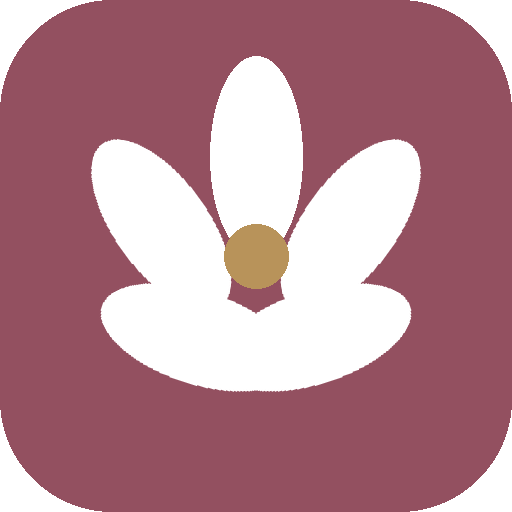
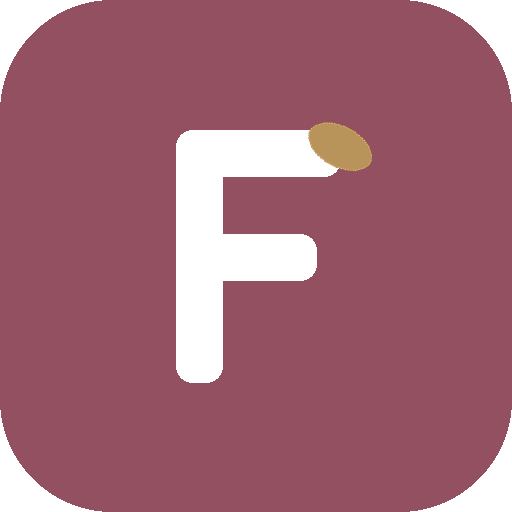
Reemplazar el isotipo de Florece por un monograma "F"
Segunda vuelta de la marca: se exploraron 4 direcciones (flor
simétrica -ya en producción-, flor orgánica, ramita botánica de trazo
lineal, monograma) comparándolas a tamaño real de favicon (16-32px).
La flor orgánica era casi indistinguible de la simétrica a ese tamaño
y la ramita perdía legibilidad — el monograma fue el único que se
sostuvo nítido en todo el rango y suma identidad real (la inicial de
Florece), no solo un ícono decorativo.

- Nuevo componente src/components/icono-marca.tsx (la "F" en trazo
  geométrico grueso + pétalo dorado, no un ícono de lucide-react — es
  la marca). El pétalo se mantiene en el dorado fijo incluso en el uso
  inline monocromático: sin ese acento se pierde el detalle que la
  distingue de una simple inicial a tamaño chico.
- public/icono-app.svg + PNGs (180/192/512) regenerados con el
  monograma para favicon/PWA.
- Reemplaza el ícono Flower (lucide) en los mismos 5 puntos donde
  actúa como marca de la plataforma (header público, login, registro,
  recibo, portada del dominio raíz).
- fundamentos/marca.html del sistema de diseño reescrita con el
  monograma definitivo + sección "Direcciones descartadas" mostrando
  las 3 alternativas exploradas y por qué no se eligieron.

Changed region(s): [[0.1562, 0.0938, 0.8438, 0.7812]]

diff --git a/diseno-sistema/fundamentos/marca.html b/diseno-sistema/fundamentos/marca.html
@@ -76,6 +76,12 @@
   .tamano { text-align: center; }
   .tamano .etiqueta { margin-top: 10px; font-size: 12px; color: var(--color-texto-secundario); font-family: monospace; }
 
+  /* Descartadas */
+  .descartadas { display: flex; gap: 20px; }
+  .descartada { text-align: center; opacity: 0.75; }
+  .descartada svg { width: 56px; height: 56px; border-radius: 14px; }
+  .descartada .etiqueta { margin-top: 8px; font-size: 11px; color: var(--color-texto-secundario); }
+
   /* Uso sobre fondos */
   .fondos { display: grid; grid-template-columns: repeat(3, 1fr); gap: 16px; }
   .fondo-card {
@@ -104,7 +110,7 @@
     border-radius: 14px;
     width: fit-content;
   }
-  .linea-mark svg { color: var(--color-rosado); }
+  .linea-mark svg { width: 22px; height: 22px; color: var(--color-rosado); }
   .linea-mark span { font-family: var(--fuente-titulo); font-weight: 600; font-size: 18px; }
 
   .nota {
@@ -138,13 +144,11 @@
       <svg class="marca-svg" viewBox="0 0 512 512" xmlns="http://www.w3.org/2000/svg">
         <rect width="512" height="512" rx="112" fill="#935060" />
         <g fill="#ffffff">
-          <ellipse cx="256" cy="156" rx="46" ry="100" />
-          <ellipse cx="256" cy="156" rx="46" ry="100" transform="rotate(72 256 256)" />
-          <ellipse cx="256" cy="156" rx="46" ry="100" transform="rotate(144 256 256)" />
-          <ellipse cx="256" cy="156" rx="46" ry="100" transform="rotate(216 256 256)" />
-          <ellipse cx="256" cy="156" rx="46" ry="100" transform="rotate(288 256 256)" />
+          <rect x="176" y="130" width="46" height="252" rx="16" />
+          <rect x="176" y="130" width="164" height="46" rx="16" />
+          <rect x="176" y="234" width="140" height="46" rx="16" />
         </g>
-        <circle cx="256" cy="256" r="32" fill="#B8935A" />
+        <ellipse cx="340" cy="146" rx="34" ry="20" fill="#B8935A" transform="rotate(28 340 146)" />
       </svg>
       <div>
         <p class="nombre-marca">Florece</p>
@@ -152,11 +156,11 @@
       </div>
     </div>
     <p class="nota">
-      Un mónogram floral de 5 pétalos: representa el negocio de la clienta (y el de
-      cada profesional) floreciendo. Pétalos blancos sobre <code>--color-rosado</code>,
-      centro en <code>--color-dorado</code> — los dos acentos que ya sostienen el resto
-      del sistema. Deliberadamente geométrico y simple: se mantiene legible incluso a
-      tamaño de favicon (16–32px), donde un trazo fino desaparece.
+      Monograma: la inicial "F" en trazo geométrico grueso, con un pétalo dorado
+      brotando de la esquina superior — la letra funciona sola como ícono (favicon,
+      PWA, avatar de negocio sin logo propio) y a la vez ancla el wordmark completo.
+      Blanco sobre <code>--color-rosado</code>, pétalo en <code>--color-dorado</code>
+      — los mismos dos acentos que ya sostienen el resto del sistema.
     </p>
   </section>
 
@@ -164,52 +168,58 @@
     <h2>Tamaños de referencia</h2>
     <div class="grilla-tamanos">
       <div class="tamano">
-        <svg width="16" height="16" viewBox="0 0 512 512"><rect width="512" height="512" rx="112" fill="#935060"/><g fill="#fff"><ellipse cx="256" cy="156" rx="46" ry="100"/><ellipse cx="256" cy="156" rx="46" ry="100" transform="rotate(72 256 256)"/><ellipse cx="256" cy="156" rx="46" ry="100" transform="rotate(144 256 256)"/><ellipse cx="256" cy="156" rx="46" ry="100" transform="rotate(216 256 256)"/><ellipse cx="256" cy="156" rx="46" ry="100" transform="rotate(288 256 256)"/></g><circle cx="256" cy="256" r="32" fill="#B8935A"/></svg>
+        <svg width="16" height="16" viewBox="0 0 512 512"><rect width="512" height="512" rx="112" fill="#935060"/><g fill="#fff"><rect x="176" y="130" width="46" height="252" rx="16"/><rect x="176" y="130" width="164" height="46" rx="16"/><rect x="176" y="234" width="140" height="46" rx="16"/></g><ellipse cx="340" cy="146" rx="34" ry="20" fill="#B8935A" transform="rotate(28 340 146)"/></svg>
         <div class="etiqueta">16px</div>
       </div>
       <div class="tamano">
-        <svg width="32" height="32" viewBox="0 0 512 512"><rect width="512" height="512" rx="112" fill="#935060"/><g fill="#fff"><ellipse cx="256" cy="156" rx="46" ry="100"/><ellipse cx="256" cy="156" rx="46" ry="100" transform="rotate(72 256 256)"/><ellipse cx="256" cy="156" rx="46" ry="100" transform="rotate(144 256 256)"/><ellipse cx="256" cy="156" rx="46" ry="100" transform="rotate(216 256 256)"/><ellipse cx="256" cy="156" rx="46" ry="100" transform="rotate(288 256 256)"/></g><circle cx="256" cy="256" r="32" fill="#B8935A"/></svg>
+        <svg width="32" height="32" viewBox="0 0 512 512"><rect width="512" height="512" rx="112" fill="#935060"/><g fill="#fff"><rect x="176" y="130" width="46" height="252" rx="16"/><rect x="176" y="130" width="164" height="46" rx="16"/><rect x="176" y="234" width="140" height="46" rx="16"/></g><ellipse cx="340" cy="146" rx="34" ry="20" fill="#B8935A" transform="rotate(28 340 146)"/></svg>
         <div class="etiqueta">32px</div>
       </div>
       <div class="tamano">
-        <svg width="48" height="48" viewBox="0 0 512 512"><rect width="512" height="512" rx="112" fill="#935060"/><g fill="#fff"><ellipse cx="256" cy="156" rx="46" ry="100"/><ellipse cx="256" cy="156" rx="46" ry="100" transform="rotate(72 256 256)"/><ellipse cx="256" cy="156" rx="46" ry="100" transform="rotate(144 256 256)"/><ellipse cx="256" cy="156" rx="46" ry="100" transform="rotate(216 256 256)"/><ellipse cx="256" cy="156" rx="46" ry="100" transform="rotate(288 256 256)"/></g><circle cx="256" cy="256" r="32" fill="#B8935A"/></svg>
+        <svg width="48" height="48" viewBox="0 0 512 512"><rect width="512" height="512" rx="112" fill="#935060"/><g fill="#fff"><rect x="176" y="130" width="46" height="252" rx="16"/><rect x="176" y="130" width="164" height="46" rx="16"/><rect x="176" y="234" width="140" height="46" rx="16"/></g><ellipse cx="340" cy="146" rx="34" ry="20" fill="#B8935A" transform="rotate(28 340 146)"/></svg>
         <div class="etiqueta">48px</div>
       </div>
       <div class="tamano">
-        <svg width="96" height="96" viewBox="0 0 512 512"><rect width="512" height="512" rx="112" fill="#935060"/><g fill="#fff"><ellipse cx="256" cy="156" rx="46" ry="100"/><ellipse cx="256" cy="156" rx="46" ry="100" transform="rotate(72 256 256)"/><ellipse cx="256" cy="156" rx="46" ry="100" transform="rotate(144 256 256)"/><ellipse cx="256" cy="156" rx="46" ry="100" transform="rotate(216 256 256)"/><ellipse cx="256" cy="156" rx="46" ry="100" transform="rotate(288 256 256)"/></g><circle cx="256" cy="256" r="32" fill="#B8935A"/></svg>
+        <svg width="96" height="96" viewBox="0 0 512 512"><rect width="512" height="512" rx="112" fill="#935060"/><g fill="#fff"><rect x="176" y="130" width="46" height="252" rx="16"/><rect x="176" y="130" width="164" height="46" rx="16"/><rect x="176" y="234" width="140" height="46" rx="16"/></g><ellipse cx="340" cy="146" rx="34" ry="20" fill="#B8935A" transform="rotate(28 340 146)"/></svg>
         <div class="etiqueta">96px</div>
       </div>
       <div class="tamano">
-        <svg width="160" height="160" viewBox="0 0 512 512"><rect width="512" height="512" rx="112" fill="#935060"/><g fill="#fff"><ellipse cx="256" cy="156" rx="46" ry="100"/><ellipse cx="256" cy="156" rx="46" ry="100" transform="rotate(72 256 256)"/><ellipse cx="256" cy="156" rx="46" ry="100" transform="rotate(144 256 256)"/><ellipse cx="256" cy="156" rx="46" ry="100" transform="rotate(216 256 256)"/><ellipse cx="256" cy="156" rx="46" ry="100" transform="rotate(288 256 256)"/></g><circle cx="256" cy="256" r="32" fill="#B8935A"/></svg>
+        <svg width="160" height="160" viewBox="0 0 512 512"><rect width="512" height="512" rx="112" fill="#935060"/><g fill="#fff"><rect x="176" y="130" width="46" height="252" rx="16"/><rect x="176" y="130" width="164" height="46" rx="16"/><rect x="176" y="234" width="140" height="46" rx="16"/></g><ellipse cx="340" cy="146" rx="34" ry="20" fill="#B8935A" transform="rotate(28 340 146)"/></svg>
         <div class="etiqueta">160px</div>
       </div>
     </div>
     <p class="nota">
       Usado como <code>public/icono-app.svg</code> del panel (favicon, ícono de PWA en
       180/192/512px, generados con Python + Pillow) — el respaldo genérico cuando una
-      cuenta todavía no subió su propio logo en "Mi negocio".
+      cuenta todavía no subió su propio logo en "Mi negocio". Se mantiene nítido incluso
+      a 16px, donde un trazo fino desaparecería.
     </p>
   </section>
 
   <section>
     <h2>Marca lineal (uso inline)</h2>
     <div class="linea-mark">
-      <svg width="22" height="22" viewBox="0 0 24 24" fill="none" stroke="currentColor" stroke-width="1.75" stroke-linecap="round" stroke-linejoin="round">
-        <circle cx="12" cy="12" r="3"/>
-        <path d="M12 16.5A4.5 4.5 0 1 1 7.5 12 4.5 4.5 0 1 1 12 7.5a4.5 4.5 0 1 1 4.5 4.5 4.5 4.5 0 1 1-4.5 4.5"/>
-        <path d="M12 7.5V9"/><path d="M7.5 12H9"/><path d="M16.5 12H15"/><path d="M12 16.5V15"/>
-        <path d="m8 8 1.88 1.88"/><path d="M14.12 9.88 16 8"/><path d="m8 16 1.88-1.88"/><path d="M14.12 14.12 16 16"/>
+      <svg viewBox="0 0 512 512">
+        <g fill="currentColor">
+          <rect x="176" y="130" width="46" height="252" rx="16"/>
+          <rect x="176" y="130" width="164" height="46" rx="16"/>
+          <rect x="176" y="234" width="140" height="46" rx="16"/>
+        </g>
+        <ellipse cx="340" cy="146" rx="34" ry="20" fill="#B8935A" transform="rotate(28 340 146)"/>
       </svg>
       <span>Florece</span>
     </div>
     <p class="nota">
-      Ícono <code>Flower</code> de lucide-react (ya instalada en el proyecto, mismo
-      lenguaje visual que el resto de la interfaz) en <code>--color-rosado-texto</code>,
-      sin fondo — reemplaza el genérico <code>Sparkles</code> que se usaba antes como
-      placeholder de marca en el header público, las pantallas de login/registro, el
-      recibo y la portada del dominio raíz. Los usos puramente decorativos de
-      <code>Sparkles</code> (ícono de categoría "uñas", tour guiado, estados vacíos)
-      no cambiaron — no son la marca, son iconografía de contenido.
+      Mismo monograma, componente propio <code>src/components/icono-marca.tsx</code>
+      (no un ícono de lucide-react — es la marca, no iconografía genérica). La "F" toma
+      <code>currentColor</code> (se adapta al color del texto que la rodea, típicamente
+      <code>--color-rosado-texto</code>), pero el pétalo se mantiene siempre en el
+      dorado fijo — sin ese acento de color, a tamaño chico se pierde el detalle que
+      distingue la marca de una simple inicial. Reemplaza el genérico
+      <code>Sparkles</code> que se usaba antes como placeholder en el header público,
+      login/registro, el recibo y la portada del dominio raíz. Los usos puramente
+      decorativos de <code>Sparkles</code> (categoría "uñas", tour guiado, estados
+      vacíos) no cambiaron — no son la marca, son iconografía de contenido.
     </p>
   </section>
 
@@ -217,23 +227,24 @@
     <h2>Sobre distintos fondos</h2>
     <div class="fondos">
       <div class="fondo-card fondo-claro">
-        <svg width="40" height="40" viewBox="0 0 24 24" fill="none" stroke="#935060" stroke-width="1.75" stroke-linecap="round" stroke-linejoin="round">
-          <circle cx="12" cy="12" r="3"/><path d="M12 16.5A4.5 4.5 0 1 1 7.5 12 4.5 4.5 0 1 1 12 7.5a4.5 4.5 0 1 1 4.5 4.5 4.5 4.5 0 1 1-4.5 4.5"/>
-          <path d="M12 7.5V9"/><path d="M7.5 12H9"/><path d="M16.5 12H15"/><path d="M12 16.5V15"/>
-          <path d="m8 8 1.88 1.88"/><path d="M14.12 9.88 16 8"/><path d="m8 16 1.88-1.88"/><path d="M14.12 14.12 16 16"/>
+        <svg width="40" height="40" viewBox="0 0 512 512">
+          <g fill="#935060"><rect x="176" y="130" width="46" height="252" rx="16"/><rect x="176" y="130" width="164" height="46" rx="16"/><rect x="176" y="234" width="140" height="46" rx="16"/></g>
+          <ellipse cx="340" cy="146" rx="34" ry="20" fill="#B8935A" transform="rotate(28 340 146)"/>
         </svg>
         <div class="nombre-fondo">--color-fondo</div>
       </div>
       <div class="fondo-card fondo-superficie">
-        <svg width="40" height="40" viewBox="0 0 24 24" fill="none" stroke="#935060" stroke-width="1.75" stroke-linecap="round" stroke-linejoin="round">
-          <circle cx="12" cy="12" r="3"/><path d="M12 16.5A4.5 4.5 0 1 1 7.5 12 4.5 4.5 0 1 1 12 7.5a4.5 4.5 0 1 1 4.5 4.5 4.5 4.5 0 1 1-4.5 4.5"/>
-          <path d="M12 7.5V9"/><path d="M7.5 12H9"/><path d="M16.5 12H15"/><path d="M12 16.5V15"/>
-          <path d="m8 8 1.88 1.88"/><path d="M14.12 9.88 16 8"/><path d="m8 16 1.88-1.88"/><path d="M14.12 14.12 16 16"/>
+        <svg width="40" height="40" viewBox="0 0 512 512">
+          <g fill="#935060"><rect x="176" y="130" width="46" height="252" rx="16"/><rect x="176" y="130" width="164" height="46" rx="16"/><rect x="176" y="234" width="140" height="46" rx="16"/></g>
+          <ellipse cx="340" cy="146" rx="34" ry="20" fill="#B8935A" transform="rotate(28 340 146)"/>
         </svg>
         <div class="nombre-fondo">--color-superficie</div>
       </div>
       <div class="fondo-card fondo-rosado">
-        <svg width="40" height="40" viewBox="0 0 512 512"><rect width="512" height="512" rx="112" fill="none"/><g fill="#fff"><ellipse cx="256" cy="156" rx="46" ry="100"/><ellipse cx="256" cy="156" rx="46" ry="100" transform="rotate(72 256 256)"/><ellipse cx="256" cy="156" rx="46" ry="100" transform="rotate(144 256 256)"/><ellipse cx="256" cy="156" rx="46" ry="100" transform="rotate(216 256 256)"/><ellipse cx="256" cy="156" rx="46" ry="100" transform="rotate(288 256 256)"/></g><circle cx="256" cy="256" r="32" fill="#B8935A"/></svg>
+        <svg width="40" height="40" viewBox="0 0 512 512">
+          <g fill="#fff"><rect x="176" y="130" width="46" height="252" rx="16"/><rect x="176" y="130" width="164" height="46" rx="16"/><rect x="176" y="234" width="140" height="46" rx="16"/></g>
+          <ellipse cx="340" cy="146" rx="34" ry="20" fill="#B8935A" transform="rotate(28 340 146)"/>
+        </svg>
         <div class="nombre-fondo">--color-rosado (isotipo completo)</div>
       </div>
     </div>
@@ -241,8 +252,33 @@
       El isotipo con fondo (cuadrado redondeado) solo se usa sobre superficies neutras
       (blanco/fondo) o como ícono independiente (favicon, PWA) — nunca sobre
       <code>--color-rosado</code> sólido, ya que el fondo del propio isotipo es ese
-      mismo tono. La versión lineal (sin fondo) es la que se usa inline, en rosado
-      sobre superficies claras.
+      mismo tono. La versión lineal (sin fondo, "F" en <code>currentColor</code>) es la
+      que se usa inline, sobre superficies claras.
+    </p>
+  </section>
+
+  <section>
+    <h2>Direcciones descartadas</h2>
+    <div class="descartadas">
+      <div class="descartada">
+        <svg viewBox="0 0 512 512"><rect width="512" height="512" rx="112" fill="#935060"/><g fill="#fff"><ellipse cx="256" cy="156" rx="46" ry="100"/><ellipse cx="256" cy="156" rx="46" ry="100" transform="rotate(72 256 256)"/><ellipse cx="256" cy="156" rx="46" ry="100" transform="rotate(144 256 256)"/><ellipse cx="256" cy="156" rx="46" ry="100" transform="rotate(216 256 256)"/><ellipse cx="256" cy="156" rx="46" ry="100" transform="rotate(288 256 256)"/></g><circle cx="256" cy="256" r="32" fill="#B8935A"/></svg>
+        <div class="etiqueta">Flor simétrica<br>(1ª versión, en producción<br>hasta esta pasada)</div>
+      </div>
+      <div class="descartada">
+        <svg viewBox="0 0 512 512"><rect width="512" height="512" rx="112" fill="#935060"/><g fill="#fff"><ellipse cx="256" cy="150" rx="50" ry="108" transform="rotate(-4 256 256)"/><ellipse cx="256" cy="158" rx="42" ry="92" transform="rotate(68 256 256)"/><ellipse cx="256" cy="162" rx="44" ry="96" transform="rotate(146 256 256)"/><ellipse cx="256" cy="156" rx="40" ry="88" transform="rotate(214 256 256)"/><ellipse cx="256" cy="160" rx="46" ry="98" transform="rotate(285 256 256)"/></g><circle cx="262" cy="250" r="30" fill="#B8935A"/></svg>
+        <div class="etiqueta">Flor orgánica —<br>casi idéntica a la<br>anterior a tamaño chico</div>
+      </div>
+      <div class="descartada">
+        <svg viewBox="0 0 512 512"><rect width="512" height="512" rx="112" fill="#935060"/><g fill="none" stroke="#ffffff" stroke-width="14" stroke-linecap="round"><path d="M256 400 C 256 320, 230 300, 230 240 C 230 190, 256 160, 256 120"/><path d="M256 300 C 256 300, 200 280, 185 240"/><path d="M256 260 C 256 260, 312 245, 330 205"/></g><g fill="#ffffff"><circle cx="256" cy="112" r="20"/><circle cx="222" cy="128" r="16"/><circle cx="290" cy="128" r="16"/></g><circle cx="256" cy="118" r="10" fill="#B8935A"/></svg>
+        <div class="etiqueta">Ramita botánica —<br>más elegante, pero el<br>trazo se pierde a 16–32px</div>
+      </div>
+    </div>
+    <p class="nota">
+      Se probaron 4 direcciones a tamaño real de favicon (32px) antes de elegir el
+      monograma: la flor simétrica y su variante orgánica eran casi indistinguibles
+      entre sí a ese tamaño, y la ramita de trazo fino perdía legibilidad. El
+      monograma fue la única que se sostuvo nítida en todo el rango 16–160px y suma
+      identidad de marca real (la inicial), no solo un ícono decorativo genérico.
     </p>
   </section>
 </body>

diff --git a/web/src/app/(publico)/[slug]/page.tsx b/web/src/app/(publico)/[slug]/page.tsx
@@ -1,6 +1,7 @@
 import { notFound } from "next/navigation";
 import type { Metadata } from "next";
-import { Flower, Phone, MessageCircle, Image as ImageIcon } from "lucide-react";
+import { Phone, MessageCircle, Image as ImageIcon } from "lucide-react";
+import { IconoMarca } from "@/components/icono-marca";
 import { crearClienteServidor } from "@/lib/supabase/servidor";
 import { Encabezado } from "@/components/publico/encabezado";
 import { SeccionServicios } from "@/components/publico/seccion-servicios";
@@ -123,7 +124,7 @@ export default async function PaginaNegocio({
       <main className="flex-1">
         {/* Hero */}
         <section className="animar-aparecer flex flex-col items-center gap-6 px-6 py-24 text-center sm:py-32">
-          <Flower className="h-8 w-8 text-rosado-texto" strokeWidth={1.5} />
+          <IconoMarca className="h-8 w-8 text-rosado-texto" />
           <h1 className="font-titulo max-w-2xl text-4xl font-semibold leading-tight text-texto-primario sm:text-5xl">
             {negocio.nombre_negocio}
           </h1>

diff --git a/web/src/app/(interno)/panel/recibo/[id]/page.tsx b/web/src/app/(interno)/panel/recibo/[id]/page.tsx
@@ -1,5 +1,6 @@
 import { notFound } from "next/navigation";
-import { CheckCircle2, MessageCircle, Flower } from "lucide-react";
+import { CheckCircle2, MessageCircle } from "lucide-react";
+import { IconoMarca } from "@/components/icono-marca";
 import { crearClienteServidor } from "@/lib/supabase/servidor";
 import { BotonImprimir } from "@/components/interno/boton-imprimir";
 import { formateadorPrecio } from "@/lib/formato";
@@ -40,7 +41,7 @@ export default async function PaginaRecibo({
     <main className="animar-aparecer mx-auto max-w-md flex-1 px-6 py-10">
       <div className="rounded-2xl border border-borde bg-superficie p-8 shadow-sm print:border-none print:p-0 print:shadow-none">
         <div className="text-center">
-          <Flower className="mx-auto h-6 w-6 text-rosado-texto" strokeWidth={1.5} />
+          <IconoMarca className="mx-auto h-6 w-6 text-rosado-texto" />
           <h1 className="font-titulo mt-2 text-2xl font-semibold text-texto-primario">
             {negocio?.nombre_negocio ?? "Recibo"}
           </h1>

diff --git a/web/src/app/(auth)/ingresar/page.tsx b/web/src/app/(auth)/ingresar/page.tsx
@@ -2,7 +2,8 @@
 
 import { useState } from "react";
 import { useRouter } from "next/navigation";
-import { AtSign, Lock, Loader2, Flower, MessageCircle } from "lucide-react";
+import { AtSign, Lock, Loader2, MessageCircle } from "lucide-react";
+import { IconoMarca } from "@/components/icono-marca";
 import { crearClienteNavegador } from "@/lib/supabase/cliente";
 import { emailInternoDesdeUsuario } from "@/lib/autenticacion";
 import { urlWhatsappSoporte } from "@/lib/soporte";
@@ -47,7 +48,7 @@ export default function PaginaIngresar() {
     <main className="flex flex-1 items-center justify-center px-6 py-16">
       <form onSubmit={alEnviar} className="animar-aparecer w-full max-w-sm">
         <div className="text-center">
-          <Flower className="mx-auto h-7 w-7 text-rosado-texto" strokeWidth={1.5} />
+          <IconoMarca className="mx-auto h-7 w-7 text-rosado-texto" />
           <h1 className="font-titulo mt-2 text-2xl font-semibold text-texto-primario">
             Iniciá sesión
           </h1>

diff --git a/web/src/app/(auth)/registro/page.tsx b/web/src/app/(auth)/registro/page.tsx
@@ -12,8 +12,8 @@ import {
   Loader2,
   CheckCircle2,
   XCircle,
-  Flower,
 } from "lucide-react";
+import { IconoMarca } from "@/components/icono-marca";
 import { crearClienteNavegador } from "@/lib/supabase/cliente";
 import { generarSlug } from "@/lib/slug";
 import { emailInternoDesdeUsuario } from "@/lib/autenticacion";
@@ -173,7 +173,7 @@ export default function PaginaRegistro() {
     <main className="flex flex-1 items-center justify-center px-6 py-16">
       <form onSubmit={alEnviar} className="animar-aparecer w-full max-w-sm">
         <div className="text-center">
-          <Flower className="mx-auto h-7 w-7 text-rosado-texto" strokeWidth={1.5} />
+          <IconoMarca className="mx-auto h-7 w-7 text-rosado-texto" />
           <h1 className="font-titulo mt-2 text-2xl font-semibold text-texto-primario">
             Creá tu cuenta
           </h1>

diff --git a/web/src/components/publico/encabezado.tsx b/web/src/components/publico/encabezado.tsx
@@ -1,7 +1,8 @@
 "use client";
 
 import { useState } from "react";
-import { Flower, Menu, X } from "lucide-react";
+import { Menu, X } from "lucide-react";
+import { IconoMarca } from "@/components/icono-marca";
 
 export function Encabezado({
   nombreNegocio,
@@ -30,7 +31,7 @@ export function Encabezado({
               className="h-6 w-6 shrink-0 rounded-full object-cover"
             />
           ) : (
-            <Flower className="h-5 w-5 shrink-0 text-rosado-texto" strokeWidth={1.75} />
+            <IconoMarca className="h-5 w-5 shrink-0 text-rosado-texto" />
           )}
           <span className="truncate">{nombreNegocio}</span>
         </span>

diff --git a/web/src/app/(publico)/page.tsx b/web/src/app/(publico)/page.tsx
@@ -1,10 +1,10 @@
-import { Flower } from "lucide-react";
+import { IconoMarca } from "@/components/icono-marca";
 
 export default function PaginaInicio() {
   return (
     <main className="flex flex-1 items-center justify-center px-6 py-24">
       <div className="text-center">
-        <Flower className="mx-auto h-9 w-9 text-rosado-texto" strokeWidth={1.5} />
+        <IconoMarca className="mx-auto h-9 w-9 text-rosado-texto" />
         <h1 className="font-titulo mt-3 text-4xl font-semibold text-texto-primario">
           Florece
         </h1>

diff --git a/web/src/components/icono-marca.tsx b/web/src/components/icono-marca.tsx
@@ -1,0 +1,12 @@
+export function IconoMarca({ className }: { className?: string }) {
+  return (
+    <svg viewBox="0 0 512 512" className={className} aria-hidden="true">
+      <g fill="currentColor">
+        <rect x="176" y="130" width="46" height="252" rx="16" />
+        <rect x="176" y="130" width="164" height="46" rx="16" />
+        <rect x="176" y="234" width="140" height="46" rx="16" />
+      </g>
+      <ellipse cx="340" cy="146" rx="34" ry="20" transform="rotate(28 340 146)" fill="#B8935A" />
+    </svg>
+  );
+}
